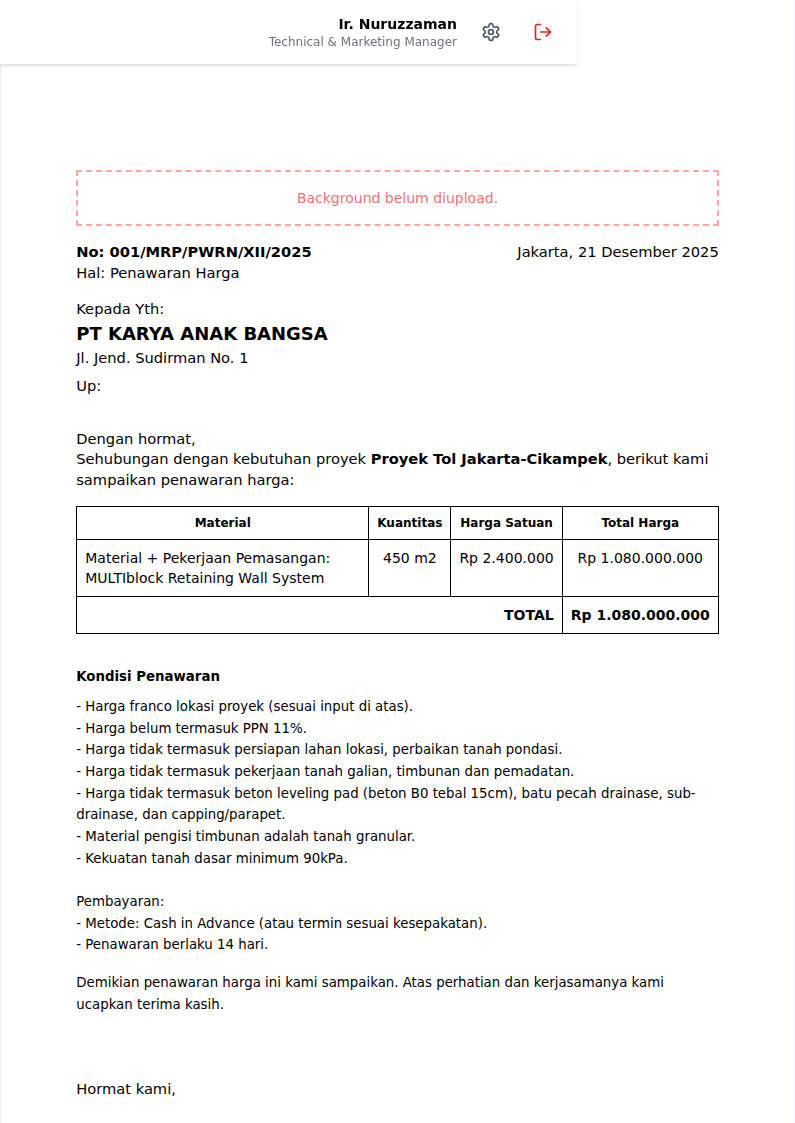
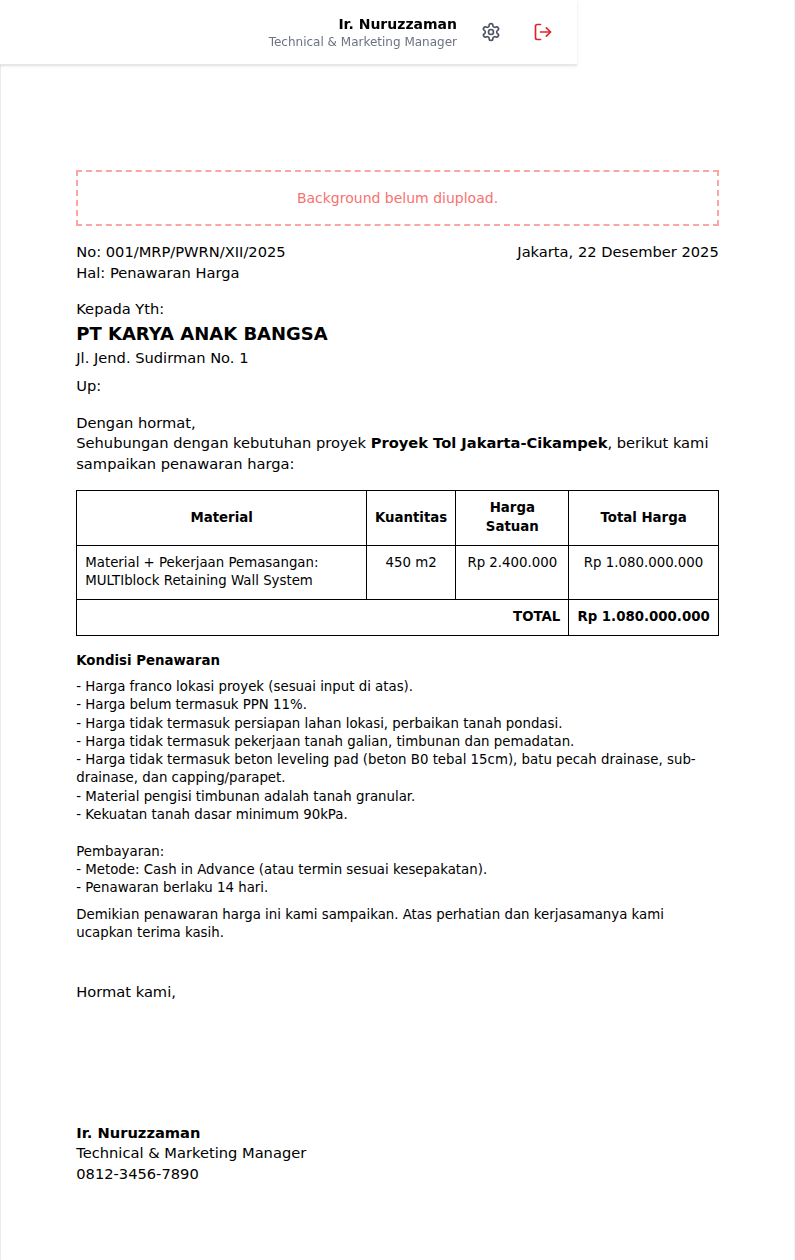
Update HTML Preview to match PDF Layout exactly
- Header: Align "No" (Left) and "Jakarta" (Right), remove bold from "No", position "Hal" below "No".
- Table: Update font size to 10pt (matching PDF), ensure black grid borders.
- Terms: Reduce line-height to `leading-snug` to optimize space.
- Signature: Left-aligned, Name (Bold, No Underline), Title (Normal), Phone included.
- Preview Container: Change to `min-height: 297mm` and `overflow: visible` to prevent signature cutoff.
- Margins: Optimize vertical margins (`mb-4`, `mt-6`) for tighter fit.

diff --git a/index.html b/index.html
@@ -29,12 +29,12 @@
         .preview-paper {
             background: white;
             width: 210mm;
-            height: 297mm; /* Fixed Height for A4 simulation */
+            min-height: 297mm; /* Fixed Height for A4 simulation */
             padding: 0;
             box-shadow: 0 4px 6px -1px rgba(0, 0, 0, 0.1);
             color: #000;
             position: relative;
-            overflow: hidden;
+            overflow: visible;
             margin-bottom: 2rem;
         }
 
@@ -43,7 +43,7 @@
             position: relative;
             z-index: 10;
             padding-top: 45mm;    /* Margin Atas untuk menghindari Header Kop */
-            padding-bottom: 30mm; /* Margin Bawah untuk menghindari Footer */
+            padding-bottom: 20mm; /* Margin Bawah untuk menghindari Footer */
             padding-left: 20mm;
             padding-right: 20mm;
             font-size: 11pt;      /* Ukuran Font 11 */
@@ -903,9 +903,9 @@ o Instalasi: DP XX%, sisa pelunasan sesuai dengan prosentase progress pekerjaan 
                                                 <>
                                                     {!assets.background && <div className="text-center text-red-400 text-sm border-2 border-dashed border-red-300 p-4 mb-4">Background belum diupload.</div>}
 
-                                                    <div className="flex justify-between mb-8">
+                                                    <div className="flex justify-between mb-4">
                                                         <div>
-                                                            <div className="font-bold">No: {formData.noSurat}</div>
+                                                            <div>No: {formData.noSurat}</div>
                                                             <div>Hal: Penawaran Harga</div>
                                                             <div className="mt-4">
                                                                 <div>Kepada Yth:</div>
@@ -931,8 +931,8 @@ o Instalasi: DP XX%, sisa pelunasan sesuai dengan prosentase progress pekerjaan 
 
                                             {/* Items Table */}
                                             {pageData.items.length > 0 && (
-                                                <table className="w-full border-collapse mb-8 border border-black">
-                                                    <thead className="text-black font-bold text-xs">
+                                                <table className="w-full border-collapse mb-4 border border-black">
+                                                    <thead className="text-black font-bold text-[10pt]">
                                                         <tr>
                                                             <th className="p-2 text-center border border-black">Material</th>
                                                             <th className="p-2 text-center border border-black">Kuantitas</th>
@@ -940,7 +940,7 @@ o Instalasi: DP XX%, sisa pelunasan sesuai dengan prosentase progress pekerjaan 
                                                             <th className="p-2 text-center border border-black">Total Harga</th>
                                                         </tr>
                                                     </thead>
-                                                    <tbody className="text-sm">
+                                                    <tbody className="text-[10pt]">
                                                         {pageData.items.map((item, i) => (
                                                             <tr key={i}>
                                                                 <td className="p-2 border border-black align-top">
@@ -971,7 +971,7 @@ o Instalasi: DP XX%, sisa pelunasan sesuai dengan prosentase progress pekerjaan 
                                             {/* Terms & Signature (Only on Last Page) */}
                                             {pageData.isLastPage && (
                                                 <>
-                                                    <div className="text-[10pt] whitespace-pre-wrap font-sans mb-8 leading-relaxed">
+                                                    <div className="text-[10pt] whitespace-pre-wrap font-sans mb-4 leading-snug">
                                                         <strong className="block text-[10pt] font-bold mb-2">Kondisi Penawaran</strong>
                                                         {(() => {
                                                             let t = formData.terms;
@@ -983,17 +983,17 @@ o Instalasi: DP XX%, sisa pelunasan sesuai dengan prosentase progress pekerjaan 
                                                             t = t.replace(/\[TANGGAL_BERLAKU\]/g, validUntil);
                                                             return t;
                                                         })()}
-                                                        <div className="mt-4">
+                                                        <div className="mt-2">
                                                             Demikian penawaran harga ini kami sampaikan. Atas perhatian dan kerjasamanya kami ucapkan terima kasih.
                                                         </div>
                                                     </div>
 
-                                                    <div className="mt-8 text-left">
+                                                    <div className="mt-6 text-left">
                                                         <div className="mb-4">Hormat kami,</div>
                                                         <div className="h-24 mb-2">
                                                             {currentUser.signature ? <img src={currentUser.signature} className="max-h-24" /> : <br/>}
                                                         </div>
-                                                        <div className="font-bold underline">{currentUser.name}</div>
+                                                        <div className="font-bold">{currentUser.name}</div>
                                                         <div>{currentUser.title}</div>
                                                         <div>{currentUser.phone}</div>
                                                     </div>
